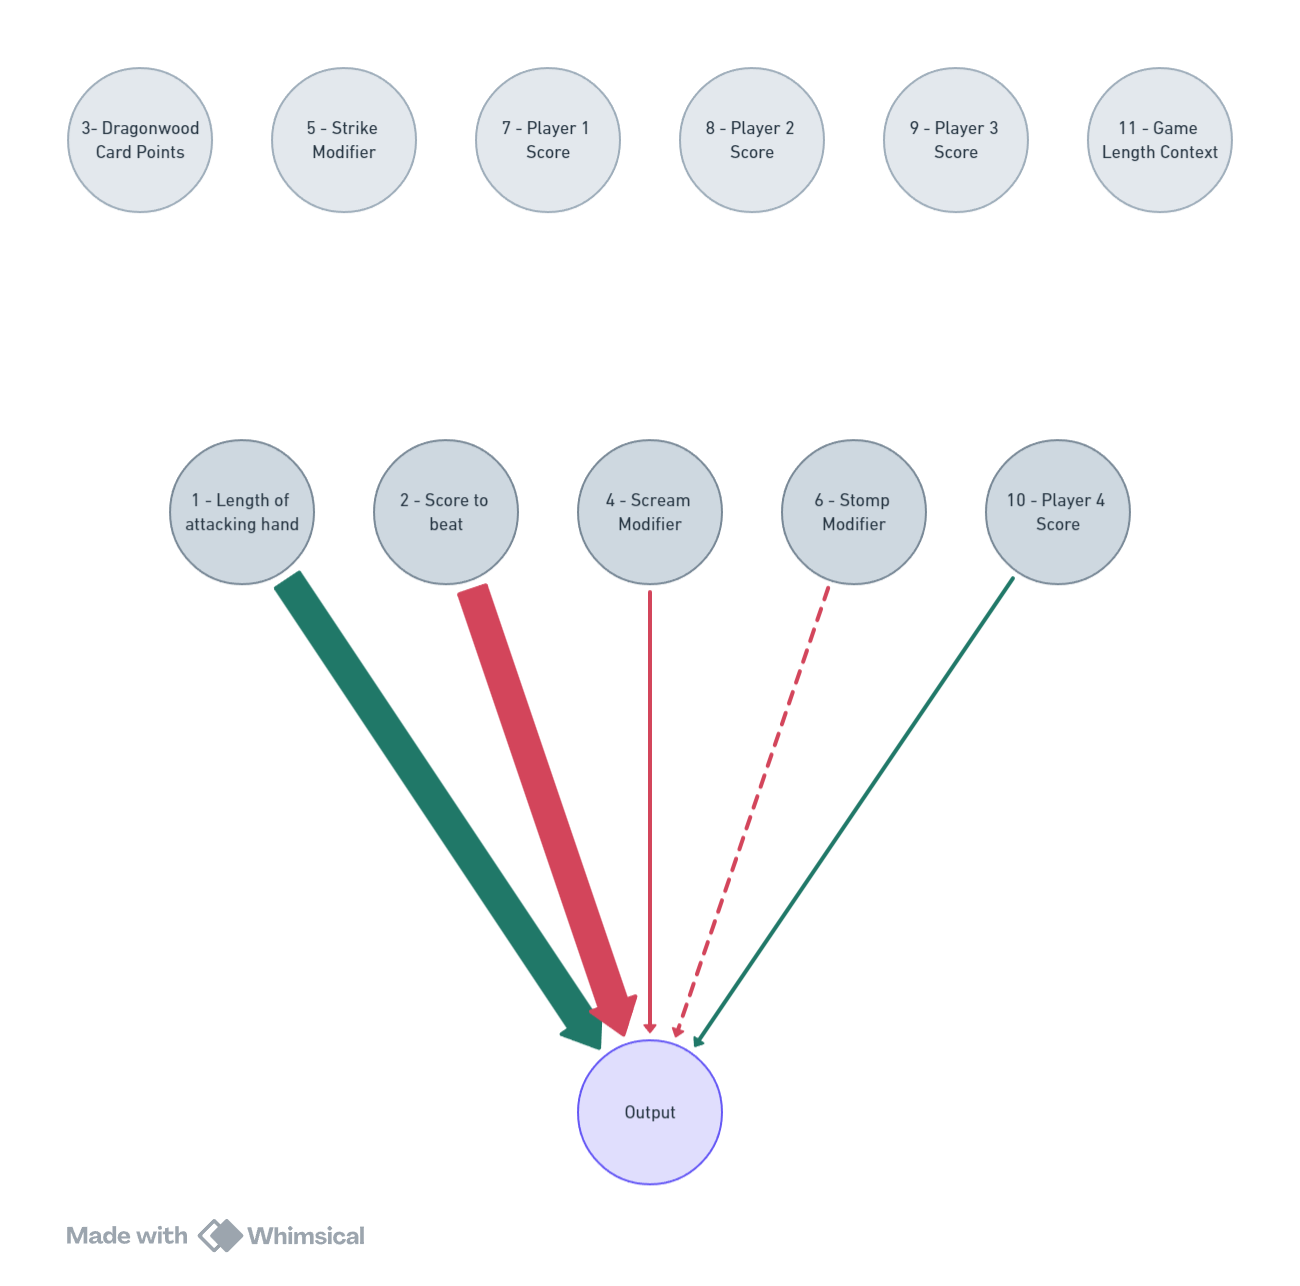
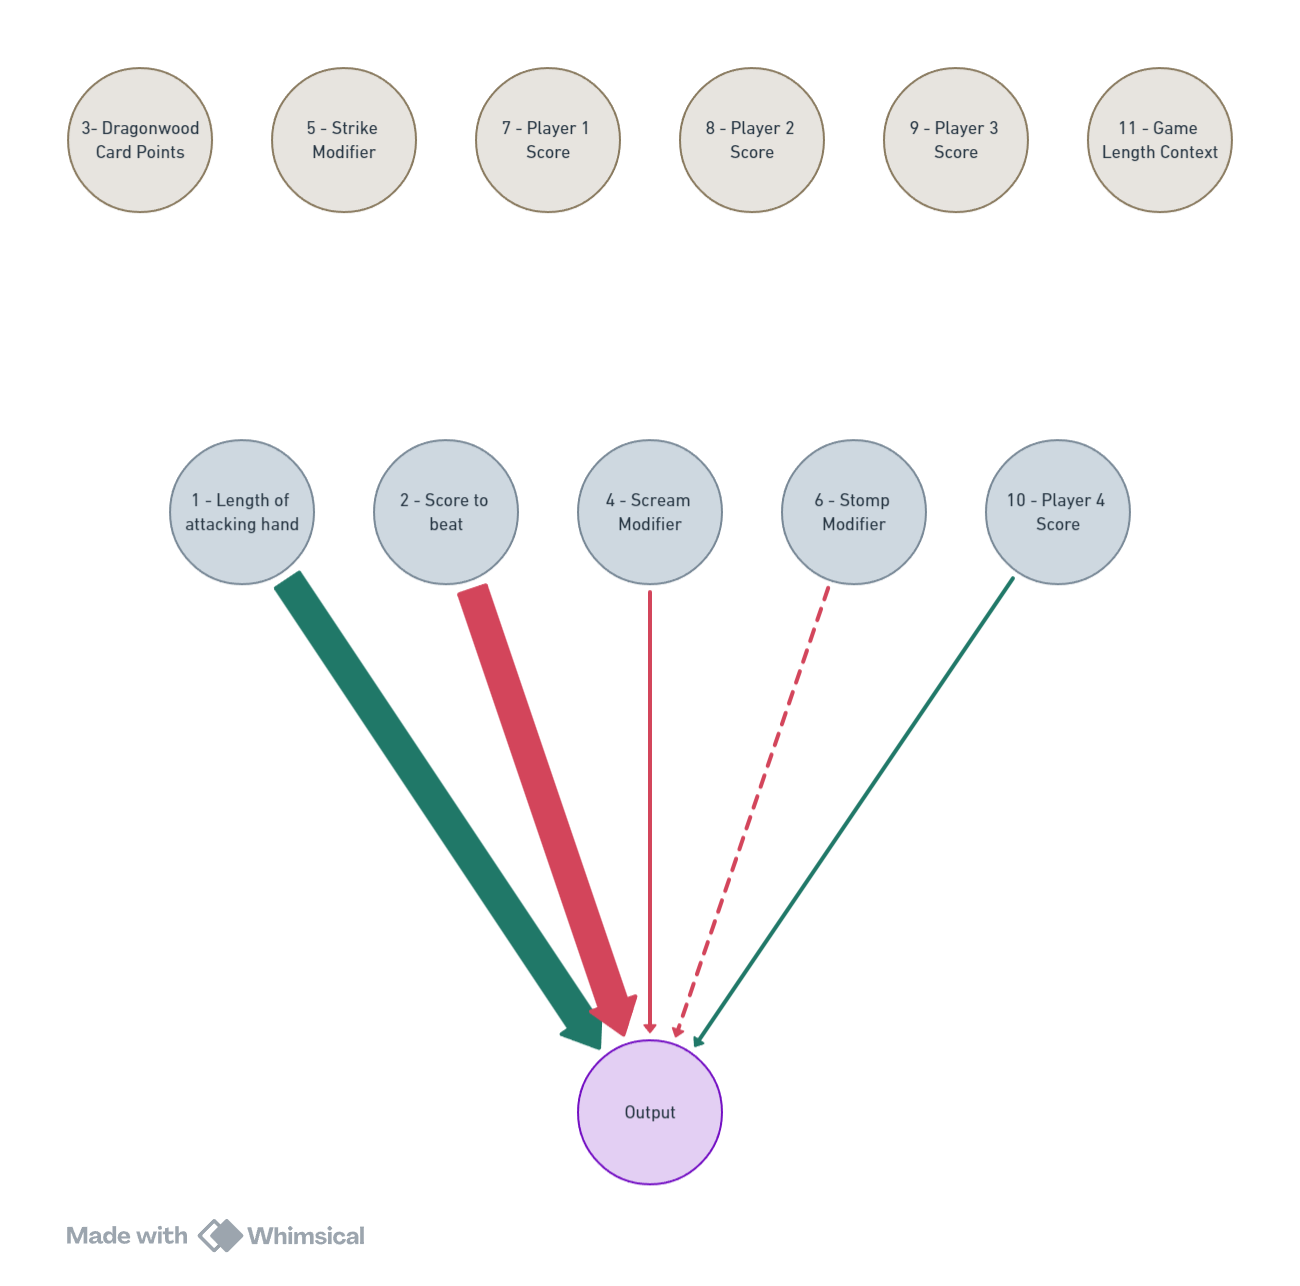
updated readme

diff --git a/README.md b/README.md
@@ -305,17 +305,17 @@ At this point i had been working on getting the network right for a month and ha
 
 So I decided to simplify the encoding trying to put the least amount of information needed not worrying about abstracting away information. I ended up with the following encoding:
 
-* length of attacking hand
-* score to beat on selected Dragonwood card
-* number of points of selected Dragonwood card
-* scream modifier if the card is an enhancement
-* strike modifier if the card is an enhancement
-* stomp modifier if the card is an enhancement
-* player 1 score
-* player 2 score
-* player 3 score
-* player 4 score
-* game length context
+- length of attacking hand
+- score to beat on selected Dragonwood card
+- number of points of selected Dragonwood card
+- scream modifier if the card is an enhancement
+- strike modifier if the card is an enhancement
+- stomp modifier if the card is an enhancement
+- player 1 score
+- player 2 score
+- player 3 score
+- player 4 score
+- game length context
 
 This encoding reduces the number of input nodes from 86 to 11.
 
@@ -364,6 +364,16 @@ This may look confusing and messy at first glance but this is a result of how th
 |![Final Network Pruned](<./docs/Final Network Pruned.png> "Final Network Pruned") |
 | :--: |
 | Final Network Pruned |
+
+I have recoloured the input nodes that weren't affecting the output and formatted the lines between the nodes according to their weight. What we can clearly see now is that the most important nodes are the length of hand and score to beat as we would expect. The remaining nodes are of minimal importance.
+
+This broadly aligns with my initial intuition on how to select a card. It should be based on how many dice are available and the score that is needed to be beaten. It is interesting however that the amount of points or the reward from the enhancement are not important to the overall output.
+
+I think the slight advantage that Alice had over the rule based agents was probably down to the network calculating a slightly better formula for prioritising when to attack.
+
+#### Results and next steps
+
+
 
 #### References
 
